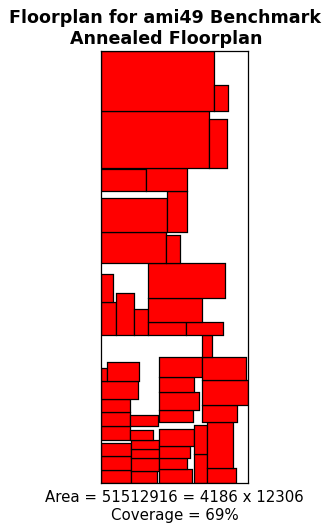
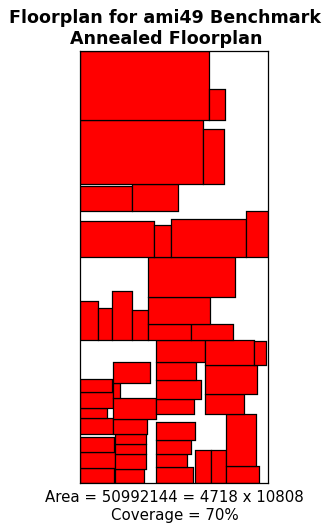
Add file to create analysis for progress report.

Changed region(s): [[0.2424, 0.0904, 0.8485, 0.9944], [0.8788, 0.904, 0.9091, 0.9642]]

diff --git a/alignImages.py b/alignImages.py
@@ -6,62 +6,33 @@ import utils
 
 prefix1 = 'Output/initialMatchPairs_'
 prefix2 = 'Output/annealing_'
-suffix = '.png'
-length = len(utils.benchmarks)
-
-images = []
-
-#fig2, axes2 = plt.subplots(nrows=2*length,ncols=2)
-#fig2.tight_layout() # prevents overlapping charts
-
-#fig, axes = plt.subplots(nrows=1,ncols=2)
-#fig.tight_layout()
 
 
+def createImages(prefix1,prefix2,outDescription):
+	suffix = '.png'
+	length = len(utils.benchmarks)
+	images = []
 
-for i in range(length): #range(length):
-	dataset = utils.benchmarks[i]
-
-	img1 = mpimg.imread(prefix1+dataset+suffix)
-	img2 = mpimg.imread(prefix2+dataset+suffix)
-
-	fig = plt.figure(i)
-	
-	#fig.axes.get_xaxis().set_visible(False)
-	#fig.axes.get_yaxis().set_visible(False)
-	plt.subplot(1, 2,1)
-	imgplot1 = plt.imshow(img1)
-	plt.axis('off')
-	
-	#plt.subplot(1, 2,2*i+2)
-	plt.subplot(1, 2,2)
-	imgplot2 = plt.imshow(img2)
-	plt.axis('off')
-
-	#plt.show()
-	fig.savefig('Output/Comparison of Intial to Annealed_' + dataset + '.png',dpi=100)
-
-
-def OLD():
-	for i in range(1): #range(length):
+	for i in range(length): #range(length):
 		dataset = utils.benchmarks[i]
 
 		img1 = mpimg.imread(prefix1+dataset+suffix)
 		img2 = mpimg.imread(prefix2+dataset+suffix)
 
-		plt.subplot(2*len(utils.benchmarks), 1,i+1)
+		fig = plt.figure(i)
+		plt.subplot(1, 2,1)
 		imgplot1 = plt.imshow(img1)
+		plt.axis('off')
 
-		plt.subplot(2*len(utils.benchmarks), 2,i+1)
+		#plt.subplot(1, 2,2*i+2)
+		plt.subplot(1, 2,2)
 		imgplot2 = plt.imshow(img2)
+		plt.axis('off')
+
+		fig.savefig(outDescription + dataset + '.png',dpi=100)
+		#plt.show()
+
+		plt.close('all')
 
 
-	plt.show()
-
-	fig2.savefig('Output/test.png',dpi=100)
-
-	#img = mpimg.imread(prefix1+utils.benchmarks[0]+suffix)
-	#imgplot = plt.imshow(img)
-
-
-plt.close('all')
+#createImages(prefix1,prefix2)

diff --git a/progressReportUpdate.py b/progressReportUpdate.py
@@ -1,0 +1,16 @@
+from initializeMatchPairs import initializeMatchPairs
+from annealer import anneal
+import metrics
+import alignImages
+import classes
+import utils
+
+annealingParameters = classes.AnnealingParameters(100,.85,5,.05,1,1)
+
+def analyzeAllBenchmarks():
+	for dataset in utils.benchmarks:
+		initializeMatchPairs(dataset)
+		anneal(dataset, annealingParameters,metrics.costArea)
+		alignImages.createImages('Output/initialMatchPairs_','Output/annealing_','Output/Comparison of Initial to Annealed_')
+
+analyzeAllBenchmarks()
